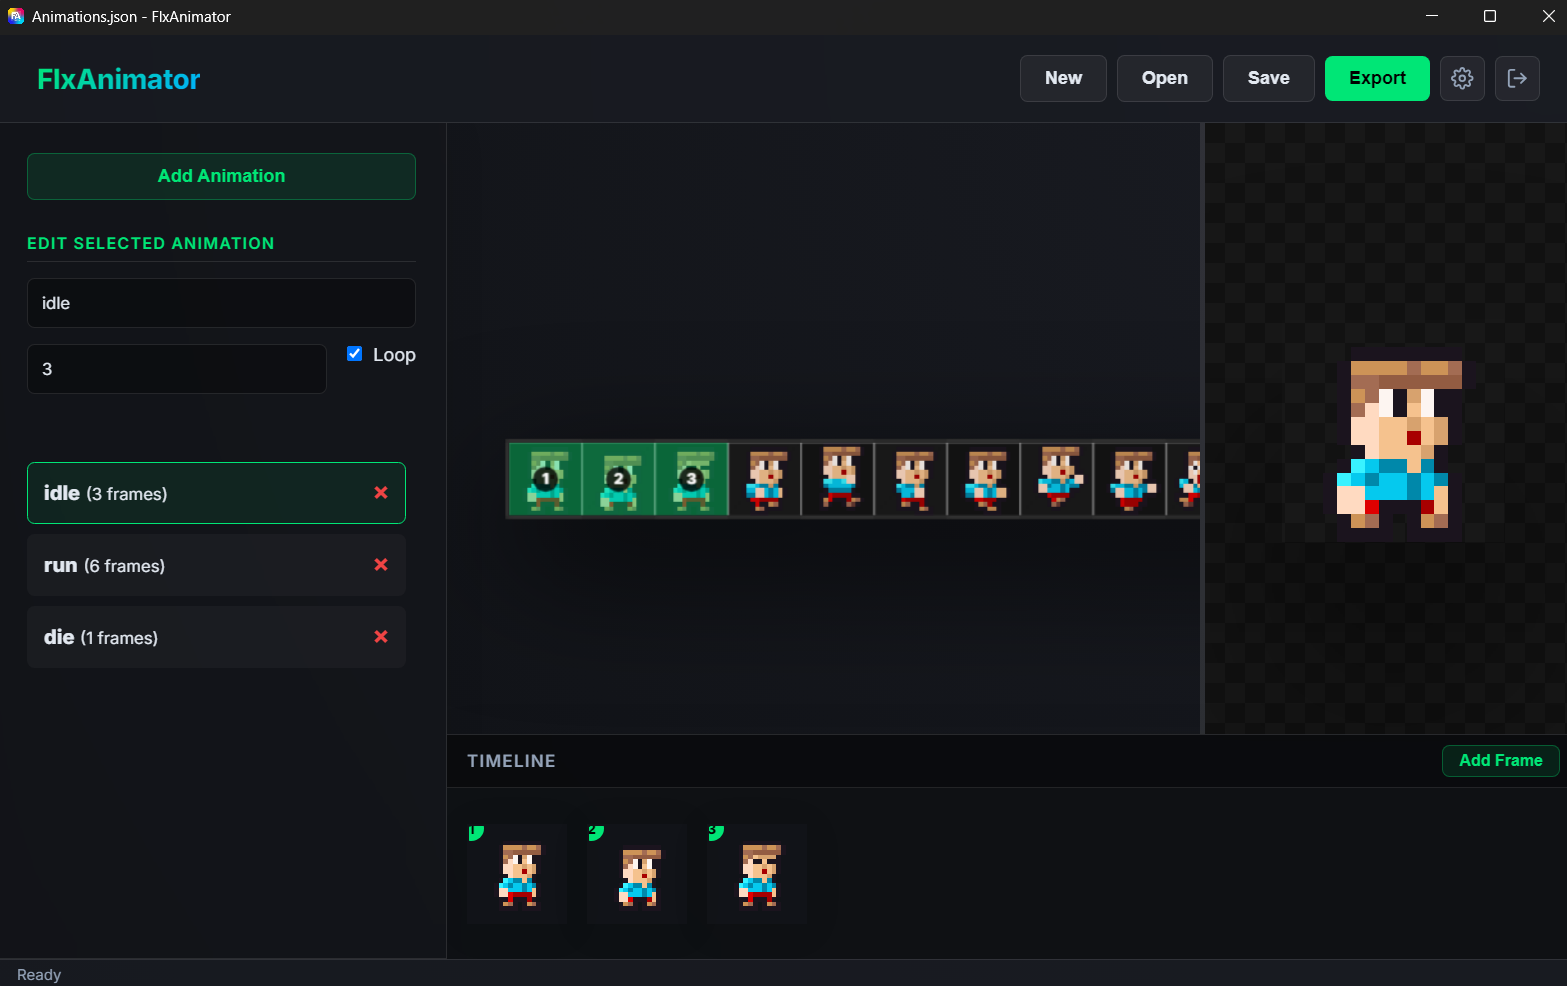
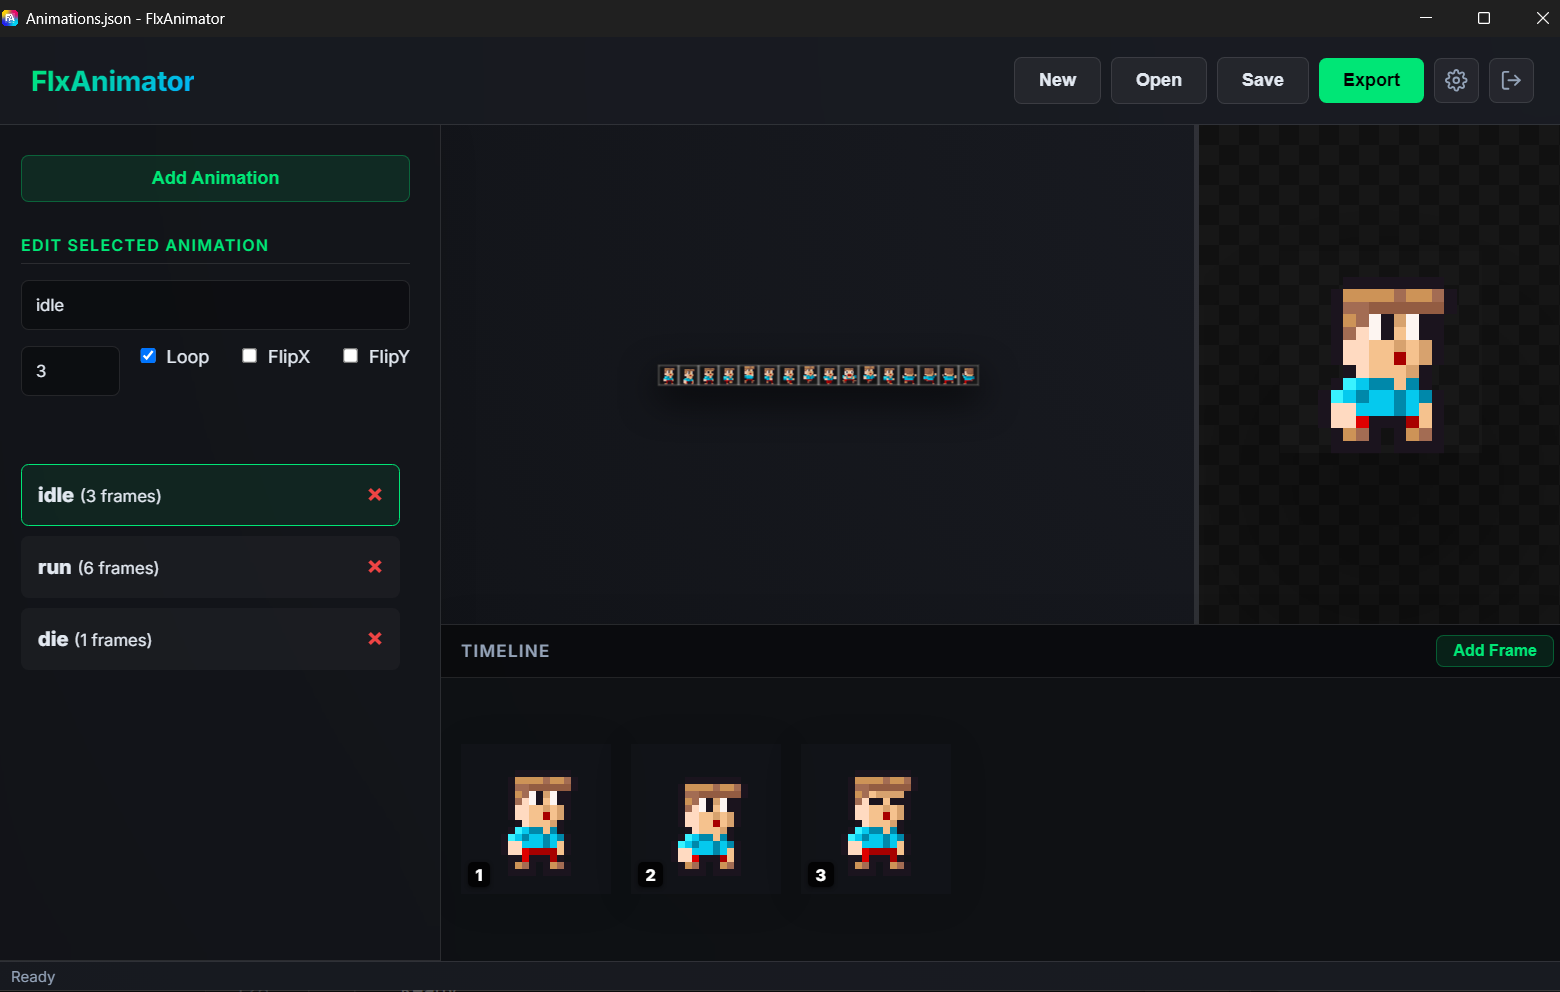
feat: increase workspace timeline size and redesign frame UI elements

diff --git a/renderer.js b/renderer.js
@@ -410,39 +410,7 @@ function drawGrid() {
             // Basis-Raster zeichnen
             ctxGrid.strokeRect(x, y, width, height);
 
-            // Wenn eine Animation selektiert ist, hebe ihre Frames hervor
-            if (selectedAnimationIndex >= 0) {
-                const anim = project.animations[selectedAnimationIndex];
-                const frameIndex = row * cols + col;
 
-                const frameOrder = anim.frames.indexOf(frameIndex);
-                if (frameOrder !== -1) {
-                    // Frame gehört zur ausgewählten Animation
-                    ctxGrid.fillStyle = 'rgba(0, 230, 118, 0.4)'; // Akzentfarbe transparent
-                    ctxGrid.fillRect(x, y, width, height);
-
-                    // Schriftgröße bleibt scharf und proportional zur Zoomstufe
-                    const maxFontSize = height * 0.8;
-                    const fontSize = Math.min(Math.max(12 / zoom, 2), maxFontSize);
-                    ctxGrid.font = `bold ${fontSize}px Inter`;
-
-                    const textStr = (frameOrder + 1).toString();
-                    const textWidth = ctxGrid.measureText(textStr).width;
-                    const radius = Math.max(textWidth, fontSize) / 2 + (4 / zoom);
-
-                    // Schwarzer Kreis als Hintergrund
-                    ctxGrid.fillStyle = 'rgba(0, 0, 0, 0.8)';
-                    ctxGrid.beginPath();
-                    ctxGrid.arc(x + width / 2, y + height / 2, radius, 0, Math.PI * 2);
-                    ctxGrid.fill();
-
-                    // Text
-                    ctxGrid.fillStyle = '#ffffff';
-                    ctxGrid.textAlign = 'center';
-                    ctxGrid.textBaseline = 'middle';
-                    ctxGrid.fillText(textStr, x + width / 2, y + height / 2);
-                }
-            }
         }
     }
 }
@@ -771,7 +739,7 @@ function updateTimeline() {
         const frameEl = document.createElement('div');
         frameEl.className = 'timeline-frame glass-panel';
         frameEl.style.cssText = `
-            width: 80px; height: 80px; min-width: 80px;
+            width: 120px; height: 120px; min-width: 120px;
             position: relative; cursor: grab;
             display: flex; flex-direction: column; align-items: center; justify-content: center;
             border: 2px solid transparent; transition: border-color 0.2s;
@@ -794,7 +762,7 @@ function updateTimeline() {
             const sy = margin + row * (height + spacing);
 
             // Calculate scale to fit within the 80x80 container while preserving aspect ratio
-            const scale = Math.min(60 / width, 60 / height);
+            const scale = Math.min(90 / width, 90 / height);
             const scaledWidth = width * scale;
             const scaledHeight = height * scale;
 
@@ -810,7 +778,7 @@ function updateTimeline() {
 
         const idxLabel = document.createElement('div');
         idxLabel.innerText = idx + 1;
-        idxLabel.style.cssText = 'position: absolute; top: -8px; left: -8px; background: var(--accent-color); color: #000; font-weight: bold; font-size: 0.7rem; width: 20px; height: 20px; border-radius: 50%; display: flex; align-items: center; justify-content: center;';
+        idxLabel.style.cssText = 'position: absolute; bottom: 4px; left: 4px; background: rgba(0, 0, 0, 0.8); color: #fff; font-weight: bold; font-size: 0.8rem; padding: 2px 6px; border-radius: 4px; pointer-events: none; box-shadow: 0 1px 3px rgba(0,0,0,0.5); z-index: 10;';
         frameEl.appendChild(idxLabel);
 
         const actionsEl = document.createElement('div');

diff --git a/index.html b/index.html
@@ -107,7 +107,7 @@
                 </div>
             </div>
 
-            <div id="workspace-timeline" class="glass-panel" style="display: none; height: 180px; flex-shrink: 0; flex-direction: column; border-top: 1px solid var(--border-color); border-left: none; border-right: none; border-bottom: none; background: rgba(15, 17, 21, 0.95);">
+            <div id="workspace-timeline" class="glass-panel" style="display: none; height: 270px; flex-shrink: 0; flex-direction: column; border-top: 1px solid var(--border-color); border-left: none; border-right: none; border-bottom: none; background: rgba(15, 17, 21, 0.95);">
                 <div class="timeline-header" style="padding: 0.5rem 1rem; display: flex; align-items: center; justify-content: space-between; background: rgba(0,0,0,0.3); border-bottom: 1px solid var(--border-color);">
                     <div style="font-weight: 600; font-size: 0.85rem; color: var(--text-muted); text-transform: uppercase; letter-spacing: 1px;">Timeline</div>
                     <div class="timeline-actions" style="display: flex; gap: 0.5rem;">
